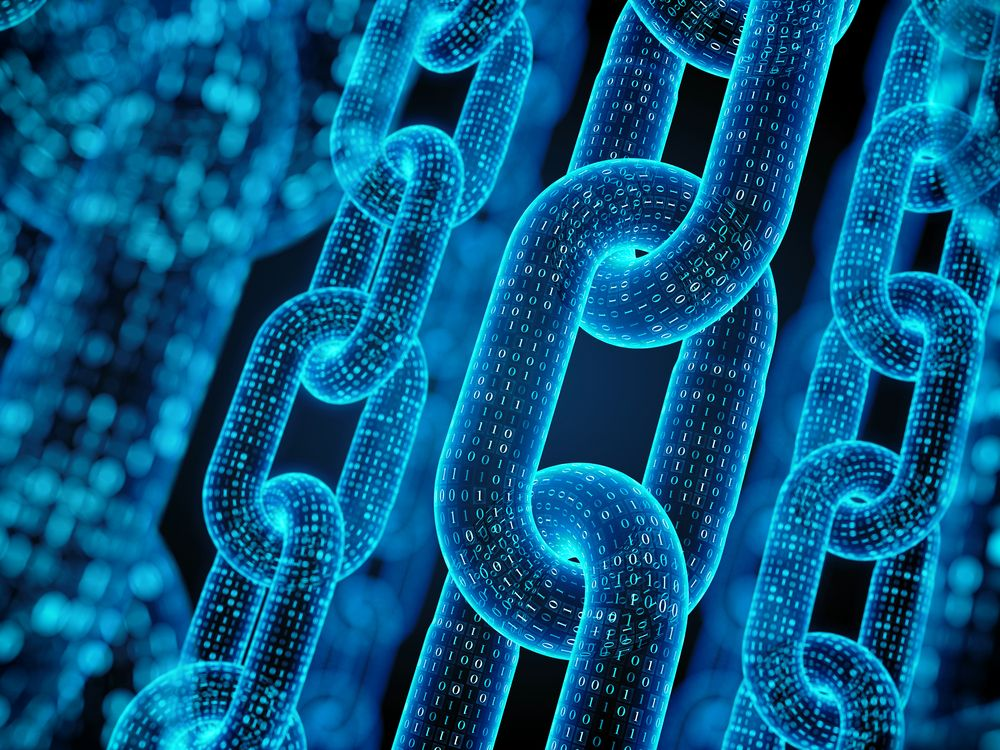
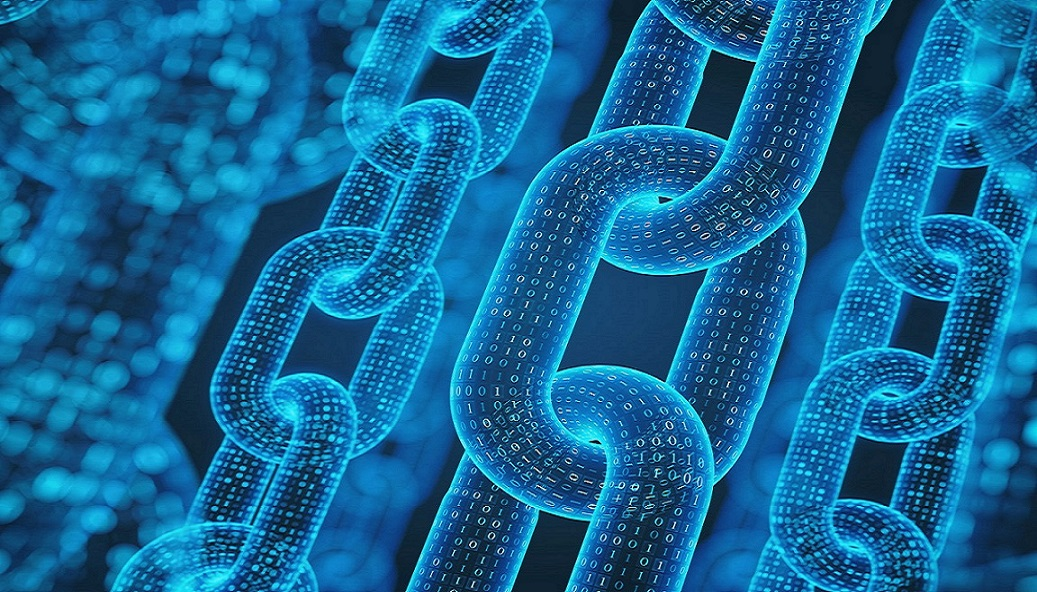
index

diff --git a/content/home/hero.md b/content/home/hero.md
@@ -27,7 +27,7 @@ weight = 3
   gradient_end = "#2b94c3"
   
   # Background image.
-  image = "blockchain.png"  # Name of image in `static/img/`.
+  image = "blockchain.jpg"  # Name of image in `static/img/`.
   image_darken = 0.6  # Darken the image? Range 0-1 where 0 is transparent and 1 is opaque.
   image_size = "cover"  #  Options are `cover` (default), `contain`, or `actual` size.
   image_position = "center"  # Options include `left`, `center` (default), or `right`.
